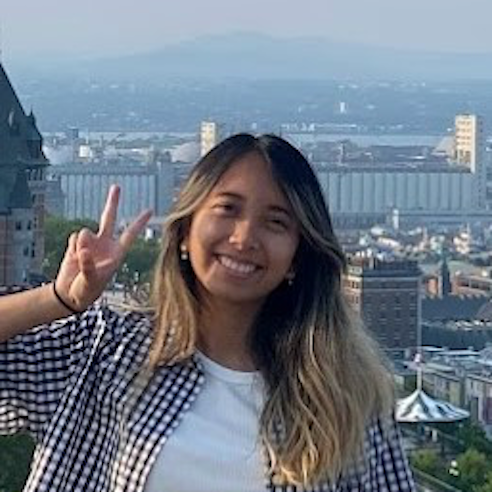
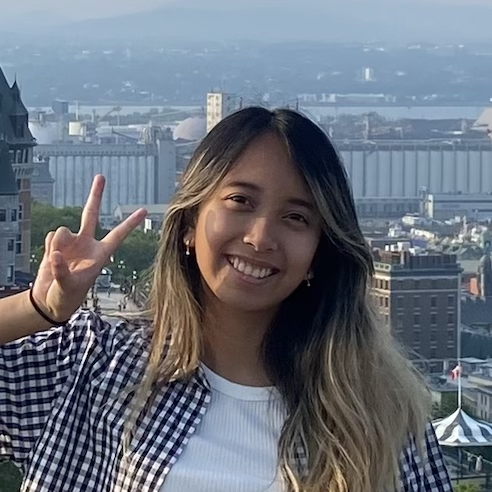
Update footer, Hannah image and quote, Jasmine bio

diff --git a/src/services/ProfilesService.tsx b/src/services/ProfilesService.tsx
@@ -36,6 +36,8 @@ const getProfiles = () => [
     image: Hannah,
     position: "Outreach Team Lead",
     bio: "Hello there! I’m a recent B.Sc. Biochemistry graduate from UBC. As Outreach Lead, I schedule our Jit Jot workshops with youth programs and day camps in several community centers around Metro Vancouver. I’m also in charge of finding sponsors to keep Jit Jots going. Besides volunteering for Jit Jots, I also volunteer as a first aid responder and crisis responder and work as a lab technician in Richmond. During my down time, I love playing video games with my friends and crocheting stuffed toys.",
+    quote:
+      '"If we knew what it was we were doing, it would not be called research, would it?" - Albert Einstein',
   },
   {
     name: "Brian Tang",
@@ -55,7 +57,7 @@ const getProfiles = () => [
     name: "Jasmine Lay",
     image: Jasmine,
     position: "Communications Team Lead",
-    bio: "Hi! I’m a 5th year UBC Biochemistry student, and the Communications Lead for Jit Jots. Besides handling our social media presence, I’m constantly designing posts, activity sheets, newsletters, etc. When I’m not studying or working on things for Jit Jots, I also enjoy music, and occasionally perform with traditional Chinese music instruments.",
+    bio: "Hi! I’m a 5th year UBC Biochemistry student, and the Communications Lead for Jit Jots. Besides handling our social media presence, When I’m not studying or working on things for Jit Jots, I also enjoy music, and occasionally perform with traditional Chinese music instruments.",
     quote:
       '"If you can’t explain it to a six-year-old, you don’t understand it yourself." - Albert Einstein',
   },

diff --git a/src/components/Footer/index.tsx b/src/components/Footer/index.tsx
@@ -10,21 +10,30 @@ function Footer() {
       <h2>Contact us!</h2>
       <div className="footer__icon-group">
         <a href="https://www.instagram.com/jitjotsofficial/" target="_blank">
-          <img
-            src={InstagramLogo}
-            alt="Instagram Logo"
-            className="footer__icon"
-          />
+          <div>
+            <img
+              src={InstagramLogo}
+              alt="Instagram Logo"
+              className="footer__icon"
+            />
+            <b>@jitjotsofficial</b>
+          </div>
         </a>
-        <a href="mailto:contact@jitjots.com">
-          <img src={EmailLogo} alt="Email Logo" className="footer__icon" />
+        <a href="mailto:jitjotsactivities@gmail.com">
+          <div>
+            <img src={EmailLogo} alt="Email Logo" className="footer__icon" />
+            <b>jitjotsactivities@gmail.com</b>
+          </div>
         </a>
         <a href="https://www.facebook.com/jitjotsactivities/" target="_blank">
-          <img
-            src={FacebookLogo}
-            alt="Facebook Logo"
-            className="footer__icon"
-          />
+          <div>
+            <img
+              src={FacebookLogo}
+              alt="Facebook Logo"
+              className="footer__icon"
+            />
+            <b>@jitjotsactivities</b>
+          </div>
         </a>
       </div>
     </footer>

diff --git a/src/components/Footer/styles.scss b/src/components/Footer/styles.scss
@@ -1,15 +1,39 @@
 .footer {
+  display: flex;
+  flex-direction: column;
   margin-top: 3rem;
-  padding: 1rem;
+  padding: 1rem 2rem;
   gap: 1rem;
+  align-items: start;
 
   color: white;
   background-color: #817f75;
 
+  h2 {
+    margin: 0.5rem 0;
+  }
+
   &__icon-group {
     display: flex;
-    justify-content: center;
+    flex-direction: column;
+    align-items: start;
     gap: 0.5rem;
+
+    a {
+      all: unset;
+      cursor: pointer;
+
+      div {
+        display: flex;
+        justify-content: center;
+        gap: 0.5rem;
+      }
+
+      p {
+        all: unset;
+        text-justify: center;
+      }
+    }
   }
 
   &__icon {
